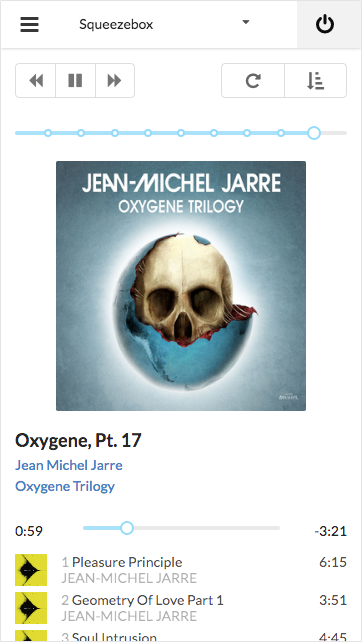
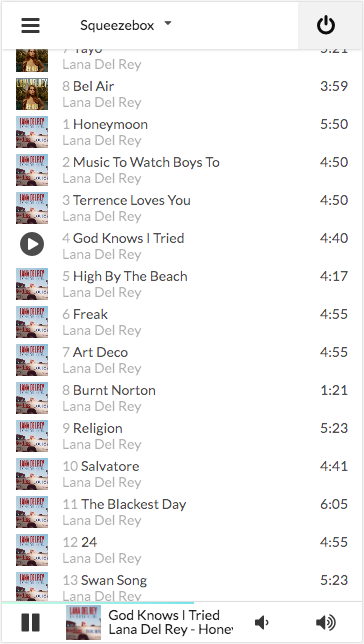
Update change log and todo list

diff --git a/todo.md b/todo.md
@@ -6,47 +6,9 @@
 - fix delete not deleting all selected items
 - fix /ultralight/menu... paths 404 when hosted by LMS
 
-- ui rearrange
-  - responsive
-    - components
-      - large screen (>500px)
-        - top player bar
-        or
-        - top player controls sticky below top bar
-      - small screen (<=500px)
-        - bottom player bar
-        or
-        - full screen player controls
-    - need to use fixed menus because otherwise we'd need to use JS to resize
-      the container element to match viewport size (ugly)
-    - problem: variable height top/bottom menus obscure primary content
-      - need to adjust margins of primary content based on size of menus
-        - use componentDidMount + ref to get size
-        - use inline stlye={obj} in element to set style
-  - player bar
-    - components
-      - play/pause button
-      - track art
-      - track details (title, artist)
-      - volume up/down
-      - blue progress line along edge of player bar
-    - integrate into top bar on large screens
-      - click track details to increase size of top bar to include full player
-        with scrollable playlist below
-    - bottom of screen on small screens
-      - click track details to switch to full player view with back button
-        - click back button to return to playlist view
-  - show full player
-    - track art/details are a clickable tile that shows full player controls
-      - next/play/pause/prev
-      - volume
-      - repeat/shuffle
-      - album art
-      - track details
-      - progress
-  - reduce sice of playlist when expanding menu (rather than pushing off the side)
-  - scroll currently playing playlist item near top of screen
-    - scroll slowly at first 5s to allow manual intervention/override
+- reduce size of playlist when expanding menu (rather than pushing off the side)
+- scroll currently playing playlist item near top of screen
+  - scroll slowly at first 5s to allow manual intervention/override
 - implement pagination
   - load more playlist items on scroll (virtualized list)
     - option: react-beautiful-dnd

diff --git a/changelog.md b/changelog.md
@@ -1,5 +1,22 @@
 # Ultralight change log
 
+## 2018-06-25 - v0.3.0
+
+- Add button to save playlist.
+- Sort album list in menu by track number.
+- Add Playlists item to menu.
+- Add dynamic player controls.
+  - Bottom menu on small screens.
+  - Integrate into top menu on larger screens.
+    - More controls appear as space allows.
+  - Switch to full player by clicking track art/details in menu.
+  - Switch to mini player by clicking button to right of track details.
+- Add track progress and volume level indicators to player bar.
+
+## 2018-02-24 - v0.2.1
+
+- Add version number in sidebar.
+
 ## 2018-01-13 - v0.2.0
 
 - Add menu with media library search.
